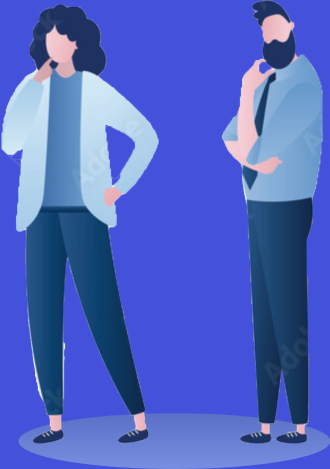
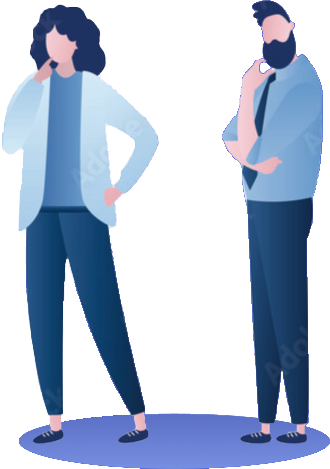
small changes

diff --git a/src/components/SectionMain/index.js b/src/components/SectionMain/index.js
@@ -1,7 +1,7 @@
 import React from "react";
 import Header from "components/Header";
 import "./style.scss";
-import peopleImage from "assets/images/people.png";
+import peopleImage from "assets/images/people.svg";
 import rigtharrow from "assets/images/right-arrow-circle.svg";
 import catImage from "assets/images/side-contact-img.svg";
 import { Swiper, SwiperSlide } from "swiper/react";
@@ -334,7 +334,7 @@ export default function index() {
                   </div>
                 </div>
                 <div className='row second-row'>
-                  <div className='col-md-5 custom-padding'>
+                  <div className='col-md-6 custom-padding'>
                     <div className='third-lefttext'>
                       <h3 className='sdh-h3'>
                         日本語での
@@ -349,7 +349,7 @@ export default function index() {
                       </p>
                     </div>
                   </div>
-                  <div className='col-md-7 custom-padding'>
+                  <div className='col-md-6 custom-padding'>
                     <img src={sdhImage03} className='sdhImage' alt='sdhImage03' />
                   </div>
                 </div>
